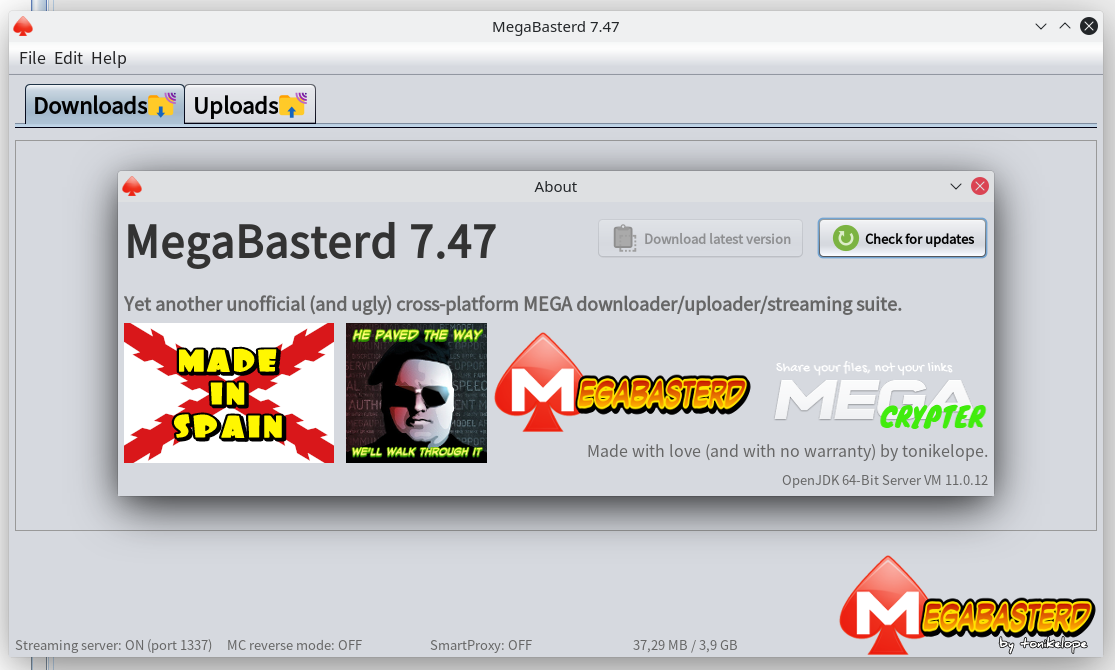
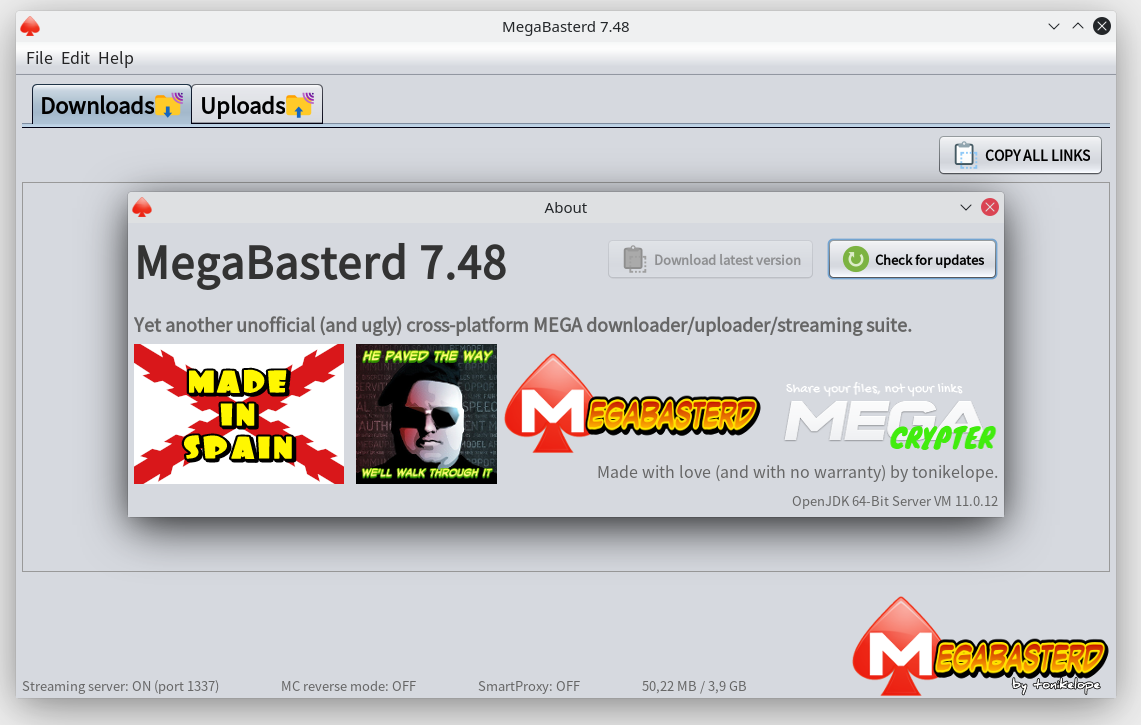
7.48
Fix https://github.com/tonikelope/megabasterd/issues/367

https://github.com/tonikelope/megabasterd/issues/368

Changed region(s): [[0.0, 0.0, 1.0, 1.0], [0.4269, 0.0299, 0.5489, 0.0597]]

diff --git a/src/main/java/com/tonikelope/megabasterd/MainPanelView.java b/src/main/java/com/tonikelope/megabasterd/MainPanelView.java
@@ -509,6 +509,7 @@ public final class MainPanelView extends javax.swing.JFrame {
         jPanel_scroll_down = new javax.swing.JPanel();
         pause_all_down_button = new javax.swing.JButton();
         down_remtime_label = new javax.swing.JLabel();
+        jButton1 = new javax.swing.JButton();
         uploads_panel = new javax.swing.JPanel();
         global_speed_up_label = new javax.swing.JLabel();
         status_up_label = new javax.swing.JLabel();
@@ -540,6 +541,8 @@ public final class MainPanelView extends javax.swing.JFrame {
 
         setTitle("MegaBasterd " + VERSION);
         setIconImage(new ImageIcon(getClass().getResource(ICON_FILE)).getImage());
+        setPreferredSize(new java.awt.Dimension(1024, 600));
+        setSize(new java.awt.Dimension(1024, 600));
 
         logo_label.setIcon(new javax.swing.ImageIcon(getClass().getResource("/images/mbasterd_logo_nuevo-picsay.png"))); // NOI18N
         logo_label.setDoubleBuffered(true);
@@ -598,19 +601,31 @@ public final class MainPanelView extends javax.swing.JFrame {
 
         down_remtime_label.setFont(new java.awt.Font("Dialog", 1, 20)); // NOI18N
 
+        jButton1.setFont(new java.awt.Font("Dialog", 1, 16)); // NOI18N
+        jButton1.setIcon(new javax.swing.ImageIcon(getClass().getResource("/images/icons8-copy-to-clipboard-30.png"))); // NOI18N
+        jButton1.setText("COPY ALL LINKS");
+        jButton1.addActionListener(new java.awt.event.ActionListener() {
+            public void actionPerformed(java.awt.event.ActionEvent evt) {
+                jButton1ActionPerformed(evt);
+            }
+        });
+
         javax.swing.GroupLayout downloads_panelLayout = new javax.swing.GroupLayout(downloads_panel);
         downloads_panel.setLayout(downloads_panelLayout);
         downloads_panelLayout.setHorizontalGroup(
             downloads_panelLayout.createParallelGroup(javax.swing.GroupLayout.Alignment.LEADING)
             .addGroup(downloads_panelLayout.createSequentialGroup()
-                .addComponent(global_speed_down_label, javax.swing.GroupLayout.DEFAULT_SIZE, javax.swing.GroupLayout.DEFAULT_SIZE, Short.MAX_VALUE)
+                .addComponent(global_speed_down_label, javax.swing.GroupLayout.DEFAULT_SIZE, 839, Short.MAX_VALUE)
                 .addPreferredGap(javax.swing.LayoutStyle.ComponentPlacement.RELATED)
                 .addComponent(pause_all_down_button))
             .addGroup(downloads_panelLayout.createSequentialGroup()
                 .addContainerGap()
                 .addComponent(status_down_label, javax.swing.GroupLayout.DEFAULT_SIZE, javax.swing.GroupLayout.DEFAULT_SIZE, Short.MAX_VALUE)
                 .addPreferredGap(javax.swing.LayoutStyle.ComponentPlacement.RELATED)
-                .addComponent(close_all_finished_down_button))
+                .addComponent(close_all_finished_down_button)
+                .addPreferredGap(javax.swing.LayoutStyle.ComponentPlacement.RELATED)
+                .addComponent(jButton1)
+                .addGap(6, 6, 6))
             .addComponent(jScrollPane_down)
             .addComponent(down_remtime_label, javax.swing.GroupLayout.DEFAULT_SIZE, javax.swing.GroupLayout.DEFAULT_SIZE, Short.MAX_VALUE)
         );
@@ -619,7 +634,9 @@ public final class MainPanelView extends javax.swing.JFrame {
             .addGroup(javax.swing.GroupLayout.Alignment.TRAILING, downloads_panelLayout.createSequentialGroup()
                 .addContainerGap()
                 .addGroup(downloads_panelLayout.createParallelGroup(javax.swing.GroupLayout.Alignment.LEADING, false)
-                    .addComponent(close_all_finished_down_button, javax.swing.GroupLayout.DEFAULT_SIZE, javax.swing.GroupLayout.DEFAULT_SIZE, Short.MAX_VALUE)
+                    .addGroup(downloads_panelLayout.createParallelGroup(javax.swing.GroupLayout.Alignment.BASELINE)
+                        .addComponent(close_all_finished_down_button, javax.swing.GroupLayout.DEFAULT_SIZE, javax.swing.GroupLayout.DEFAULT_SIZE, Short.MAX_VALUE)
+                        .addComponent(jButton1))
                     .addComponent(status_down_label, javax.swing.GroupLayout.DEFAULT_SIZE, javax.swing.GroupLayout.DEFAULT_SIZE, Short.MAX_VALUE))
                 .addPreferredGap(javax.swing.LayoutStyle.ComponentPlacement.RELATED)
                 .addComponent(jScrollPane_down, javax.swing.GroupLayout.DEFAULT_SIZE, 288, Short.MAX_VALUE)
@@ -865,17 +882,17 @@ public final class MainPanelView extends javax.swing.JFrame {
                 .addGroup(layout.createParallelGroup(javax.swing.GroupLayout.Alignment.LEADING)
                     .addComponent(jTabbedPane1, javax.swing.GroupLayout.Alignment.TRAILING)
                     .addGroup(javax.swing.GroupLayout.Alignment.TRAILING, layout.createSequentialGroup()
-                        .addGap(0, 283, Short.MAX_VALUE)
+                        .addGap(0, 0, Short.MAX_VALUE)
                         .addComponent(unfreeze_transferences_button)
-                        .addGap(0, 282, Short.MAX_VALUE))
+                        .addGap(0, 0, Short.MAX_VALUE))
                     .addGroup(layout.createSequentialGroup()
-                        .addComponent(kiss_server_status, javax.swing.GroupLayout.DEFAULT_SIZE, 191, Short.MAX_VALUE)
+                        .addComponent(kiss_server_status, javax.swing.GroupLayout.DEFAULT_SIZE, javax.swing.GroupLayout.DEFAULT_SIZE, Short.MAX_VALUE)
                         .addPreferredGap(javax.swing.LayoutStyle.ComponentPlacement.UNRELATED)
-                        .addComponent(mc_reverse_status, javax.swing.GroupLayout.DEFAULT_SIZE, 191, Short.MAX_VALUE)
+                        .addComponent(mc_reverse_status, javax.swing.GroupLayout.DEFAULT_SIZE, javax.swing.GroupLayout.DEFAULT_SIZE, Short.MAX_VALUE)
                         .addPreferredGap(javax.swing.LayoutStyle.ComponentPlacement.UNRELATED)
-                        .addComponent(smart_proxy_status, javax.swing.GroupLayout.DEFAULT_SIZE, 191, Short.MAX_VALUE)
+                        .addComponent(smart_proxy_status, javax.swing.GroupLayout.DEFAULT_SIZE, javax.swing.GroupLayout.DEFAULT_SIZE, Short.MAX_VALUE)
                         .addPreferredGap(javax.swing.LayoutStyle.ComponentPlacement.UNRELATED)
-                        .addComponent(memory_status, javax.swing.GroupLayout.DEFAULT_SIZE, 198, Short.MAX_VALUE)
+                        .addComponent(memory_status, javax.swing.GroupLayout.DEFAULT_SIZE, javax.swing.GroupLayout.DEFAULT_SIZE, Short.MAX_VALUE)
                         .addPreferredGap(javax.swing.LayoutStyle.ComponentPlacement.RELATED, javax.swing.GroupLayout.DEFAULT_SIZE, Short.MAX_VALUE)
                         .addComponent(logo_label)))
                 .addContainerGap())
@@ -886,7 +903,7 @@ public final class MainPanelView extends javax.swing.JFrame {
                 .addContainerGap()
                 .addComponent(unfreeze_transferences_button)
                 .addPreferredGap(javax.swing.LayoutStyle.ComponentPlacement.UNRELATED)
-                .addComponent(jTabbedPane1, javax.swing.GroupLayout.DEFAULT_SIZE, 469, Short.MAX_VALUE)
+                .addComponent(jTabbedPane1)
                 .addPreferredGap(javax.swing.LayoutStyle.ComponentPlacement.RELATED)
                 .addGroup(layout.createParallelGroup(javax.swing.GroupLayout.Alignment.TRAILING)
                     .addComponent(logo_label)
@@ -1421,6 +1438,14 @@ public final class MainPanelView extends javax.swing.JFrame {
         THREAD_POOL.execute(_main_panel.getUpload_manager()::unfreezeTransferenceWaitStartQueue);
     }//GEN-LAST:event_unfreeze_transferences_buttonActionPerformed
 
+    private void jButton1ActionPerformed(java.awt.event.ActionEvent evt) {//GEN-FIRST:event_jButton1ActionPerformed
+        // TODO add your handling code here:
+
+        _main_panel.getDownload_manager().copyAllLinksToClipboard();
+
+        JOptionPane.showMessageDialog(this, LabelTranslatorSingleton.getInstance().translate("¡TODO COPIADO!"));
+    }//GEN-LAST:event_jButton1ActionPerformed
+
     // Variables declaration - do not modify//GEN-BEGIN:variables
     private javax.swing.JMenuItem about_menu;
     private javax.swing.JCheckBoxMenuItem auto_close_menu;
@@ -1437,6 +1462,7 @@ public final class MainPanelView extends javax.swing.JFrame {
     private javax.swing.JLabel global_speed_up_label;
     private javax.swing.JMenu help_menu;
     private javax.swing.JMenuItem hide_tray_menu;
+    private javax.swing.JButton jButton1;
     private javax.swing.JPanel jPanel_scroll_down;
     private javax.swing.JPanel jPanel_scroll_up;
     private javax.swing.JScrollPane jScrollPane_down;

diff --git a/src/main/java/com/tonikelope/megabasterd/StreamerDialog.java b/src/main/java/com/tonikelope/megabasterd/StreamerDialog.java
@@ -8,6 +8,8 @@ import static java.awt.event.WindowEvent.WINDOW_CLOSING;
 import java.io.UnsupportedEncodingException;
 import java.net.URLDecoder;
 import java.util.HashSet;
+import java.util.List;
+import java.util.Set;
 import java.util.logging.Level;
 import java.util.logging.Logger;
 import javax.swing.JButton;
@@ -182,79 +184,98 @@ public class StreamerDialog extends javax.swing.JDialog implements ClipboardChan
 
         final Dialog tthis = this;
 
-        try {
-            boolean error = false;
+        THREAD_POOL.execute(() -> {
+            try {
+                boolean error = false;
 
-            String stream_link = null;
+                String stream_link = null;
 
-            String link = URLDecoder.decode(original_link_textfield.getText(), "UTF-8").trim();
+                String link = URLDecoder.decode(original_link_textfield.getText(), "UTF-8").trim();
 
-            if (link.length() > 0) {
+                if (link.length() > 0) {
 
-                try {
+                    try {
 
-                    if (findFirstRegex("://enc", link, 0) != null) {
+                        if (findFirstRegex("://enc", link, 0) != null) {
 
-                        link = CryptTools.decryptMegaDownloaderLink(link);
+                            link = CryptTools.decryptMegaDownloaderLink(link);
 
-                    } else if (findFirstRegex("://elc", link, 0) != null) {
+                        } else if (findFirstRegex("://elc", link, 0) != null) {
 
-                        HashSet links = CryptTools.decryptELC(link, ((MainPanelView) tthis.getParent()).getMain_panel());
+                            HashSet links = CryptTools.decryptELC(link, ((MainPanelView) tthis.getParent()).getMain_panel());
 
-                        if (links != null) {
+                            if (links != null) {
 
-                            link = (String) links.iterator().next();
+                                link = (String) links.iterator().next();
+                            }
                         }
+
+                    } catch (Exception ex) {
+
+                        error = true;
+
+                        LOG.log(Level.SEVERE, ex.getMessage());
                     }
 
-                } catch (Exception ex) {
+                    String data;
 
-                    error = true;
+                    if (findFirstRegex("://mega(\\.co)?\\.nz/#[^fF]", link, 0) != null || findFirstRegex("://mega(\\.co)?\\.nz/#F*", link, 0) != null || findFirstRegex("https?://[^/]+/![^!]+![0-9a-fA-F]+", link, 0) != null) {
 
-                    LOG.log(Level.SEVERE, ex.getMessage());
-                }
+                        if (link.contains("#F*")) {
 
-                String data;
+                            MegaAPI ma = new MegaAPI();
 
-                if (findFirstRegex("://mega(\\.co)?\\.nz/#[^fF]", link, 0) != null || findFirstRegex("https?://[^/]+/![^!]+![0-9a-fA-F]+", link, 0) != null) {
+                            Set<String> links = new HashSet<>();
 
-                    String selected_account = (String) use_mega_account_down_combobox.getSelectedItem();
+                            links.add(link);
 
-                    data = Bin2UrlBASE64(((selected_account != null ? selected_account : "") + "|" + link).getBytes("UTF-8"));
+                            List nlinks = ma.getNlinks(links);
 
-                    stream_link = "http://localhost:1337/video/" + data;
+                            link = (String) nlinks.get(0);
+                        }
+
+                        String selected_account = (String) use_mega_account_down_combobox.getSelectedItem();
+
+                        data = Bin2UrlBASE64(((selected_account != null ? selected_account : "") + "|" + link).getBytes("UTF-8"));
+
+                        stream_link = "http://localhost:1337/video/" + data;
+
+                    } else {
+
+                        error = true;
+                    }
 
                 } else {
 
                     error = true;
                 }
 
-            } else {
+                if (error) {
 
-                error = true;
+                    MiscTools.GUIRun(() -> {
+                        JOptionPane.showMessageDialog(tthis, LabelTranslatorSingleton.getInstance().translate("Please, paste a Mega/MegaCrypter/ELC link!"), "Error", JOptionPane.ERROR_MESSAGE);
+
+                        original_link_textfield.setText("");
+
+                        dance_button.setEnabled(true);
+
+                        original_link_textfield.setEnabled(true);
+                    });
+
+                } else {
+
+                    _mainPanelView.getMain_panel().getClipboardspy().detachObserver((ClipboardChangeObserver) tthis);
+                    copyTextToClipboard(stream_link);
+                    MiscTools.GUIRun(() -> {
+                        JOptionPane.showMessageDialog(tthis, LabelTranslatorSingleton.getInstance().translate("Streaming link was copied to clipboard!\nRemember to keep MegaBasterd running in background while playing content."));
+                        dispose();
+                        getParent().dispatchEvent(new WindowEvent(tthis, WINDOW_CLOSING));
+                    });
+                }
+            } catch (UnsupportedEncodingException ex) {
+                LOG.log(Level.SEVERE, ex.getMessage());
             }
-
-            if (error) {
-
-                JOptionPane.showMessageDialog(tthis, LabelTranslatorSingleton.getInstance().translate("Please, paste a Mega/MegaCrypter/ELC link!"), "Error", JOptionPane.ERROR_MESSAGE);
-
-                original_link_textfield.setText("");
-
-                dance_button.setEnabled(true);
-
-                original_link_textfield.setEnabled(true);
-
-            } else {
-
-                _mainPanelView.getMain_panel().getClipboardspy().detachObserver((ClipboardChangeObserver) tthis);
-                copyTextToClipboard(stream_link);
-                JOptionPane.showMessageDialog(tthis, LabelTranslatorSingleton.getInstance().translate("Streaming link was copied to clipboard!\nRemember to keep MegaBasterd running in background while playing content."));
-                dispose();
-                getParent().dispatchEvent(new WindowEvent(tthis, WINDOW_CLOSING));
-            }
-        } catch (UnsupportedEncodingException ex) {
-            LOG.log(Level.SEVERE, ex.getMessage());
-        }
+        });
 
     }//GEN-LAST:event_dance_buttonActionPerformed
 

diff --git a/src/main/java/com/tonikelope/megabasterd/DownloadManager.java b/src/main/java/com/tonikelope/megabasterd/DownloadManager.java
@@ -22,6 +22,74 @@ public class DownloadManager extends TransferenceManager {
     }
 
     @Override
+    public void closeAllFinished() {
+
+        _transference_finished_queue.stream().filter((t) -> ((!t.isStatusError() || ((Download) t).getStatus_error().equals("FILE WITH SAME NAME AND SIZE ALREADY EXISTS")) && !t.isCanceled())).map((t) -> {
+            _transference_finished_queue.remove(t);
+            return t;
+        }).forEachOrdered((t) -> {
+            _transference_remove_queue.add(t);
+        });
+
+        secureNotify();
+    }
+
+    public void copyAllLinksToClipboard() {
+
+        ArrayList<String> links = new ArrayList<>();
+
+        String out = "***PROVISIONING DOWNLOADS***\r\n\r\n";
+
+        for (Transference t : _transference_provision_queue) {
+
+            links.add(((Download) t).getUrl());
+        }
+
+        out += String.join("\r\n", links);
+
+        links.clear();
+
+        out += "\r\n\r\n***WAITING DOWNLOADS***\r\n\r\n";
+
+        for (Transference t : _transference_waitstart_aux_queue) {
+
+            links.add(((Download) t).getUrl());
+        }
+
+        for (Transference t : _transference_waitstart_queue) {
+
+            links.add(((Download) t).getUrl());
+        }
+
+        out += String.join("\r\n", links);
+
+        links.clear();
+
+        out += "\r\n\r\n***RUNNING DOWNLOADS***\r\n\r\n";
+
+        for (Transference t : _transference_running_list) {
+
+            links.add(((Download) t).getUrl());
+        }
+
+        out += String.join("\r\n", links);
+
+        links.clear();
+
+        out += "\r\n\r\n***FINISHED DOWNLOADS***\r\n\r\n";
+
+        for (Transference t : _transference_finished_queue) {
+
+            links.add(((Download) t).getUrl());
+        }
+
+        out += String.join("\r\n", links);
+
+        MiscTools.copyTextToClipboard(out);
+
+    }
+
+    @Override
     public void remove(Transference[] downloads) {
 
         ArrayList<String> delete_down = new ArrayList<>();

diff --git a/src/main/java/com/tonikelope/megabasterd/TransferenceManager.java b/src/main/java/com/tonikelope/megabasterd/TransferenceManager.java
@@ -23,14 +23,14 @@ abstract public class TransferenceManager implements Runnable, SecureSingleThrea
     public static final int MAX_PROVISION_WORKERS = 25;
     private static final Logger LOG = Logger.getLogger(TransferenceManager.class.getName());
 
-    private final ConcurrentLinkedQueue<Object> _transference_preprocess_global_queue;
-    private final ConcurrentLinkedQueue<Runnable> _transference_preprocess_queue;
-    private final ConcurrentLinkedQueue<Transference> _transference_provision_queue;
-    private final ConcurrentLinkedQueue<Transference> _transference_waitstart_queue;
-    private final ConcurrentLinkedQueue<Transference> _transference_waitstart_aux_queue;
-    private final ConcurrentLinkedQueue<Transference> _transference_remove_queue;
-    private final ConcurrentLinkedQueue<Transference> _transference_finished_queue;
-    private final ConcurrentLinkedQueue<Transference> _transference_running_list;
+    protected final ConcurrentLinkedQueue<Object> _transference_preprocess_global_queue;
+    protected final ConcurrentLinkedQueue<Runnable> _transference_preprocess_queue;
+    protected final ConcurrentLinkedQueue<Transference> _transference_provision_queue;
+    protected final ConcurrentLinkedQueue<Transference> _transference_waitstart_queue;
+    protected final ConcurrentLinkedQueue<Transference> _transference_waitstart_aux_queue;
+    protected final ConcurrentLinkedQueue<Transference> _transference_remove_queue;
+    protected final ConcurrentLinkedQueue<Transference> _transference_finished_queue;
+    protected final ConcurrentLinkedQueue<Transference> _transference_running_list;
 
     private final javax.swing.JPanel _scroll_panel;
     private final javax.swing.JLabel _status;

diff --git a/src/main/java/com/tonikelope/megabasterd/LabelTranslatorSingleton.java b/src/main/java/com/tonikelope/megabasterd/LabelTranslatorSingleton.java
@@ -38,6 +38,7 @@ public class LabelTranslatorSingleton {
 
     private void Spanish() {
 
+        _addTranslation("¡TODO COPIADO!", "ALL COPIED!");
         _addTranslation("FILE WITH SAME NAME AND SIZE ALREADY EXISTS", "YA EXISTE UN FICHERO CON EL MISMO NOMBRE Y TAMAÑO");
         _addTranslation("WARNING: USING MEGA API WITHOUT API KEY MAY VIOLATE ITS TERM OF USE. YOU SHOULD GET A KEY -> https://mega.nz/sdk", "AVISO: USAR LA API DE MEGA SIN UNA API KEY PUEDE VIOLAR SUS TÉRMINOS DE USO. DEBES CONSEGUIR UNA API KEY -> https://mega.nz/sdk");
         _addTranslation("WARNING: USING MEGA API WITHOUT API KEY MAY VIOLATE ITS TERM OF USE.\n\nYOU SHOULD GET A KEY -> https://mega.nz/sdk (and set it in MegaBasterd ADVANCED SETTINGS).\n\nCREATE API KEY NOW?", "AVISO: USAR LA API DE MEGA SIN UNA API KEY PUEDE VIOLAR SUS TÉRMINOS DE USO.\n\nDEBES CONSEGUIR UNA API KEY -> https://mega.nz/sdk (e introducirla en AJUSTES AVANZADOS de MegaBasterd).\n\n¿CREAR AHORA UNA API KEY?");

diff --git a/src/main/java/com/tonikelope/megabasterd/Download.java b/src/main/java/com/tonikelope/megabasterd/Download.java
@@ -101,6 +101,10 @@ public class Download implements Transference, Runnable, SecureSingleThreadNotif
     private final Object _progress_watchdog_lock;
     private final boolean _priority;
 
+    public String getStatus_error() {
+        return _status_error;
+    }
+
     public Download(MainPanel main_panel, MegaAPI ma, String url, String download_path, String file_name, String file_key, Long file_size, String file_pass, String file_noexpire, boolean use_slots, boolean restart, String custom_chunks_dir, boolean priority) {
 
         _priority = priority;

diff --git a/src/main/java/com/tonikelope/megabasterd/MainPanel.java b/src/main/java/com/tonikelope/megabasterd/MainPanel.java
@@ -60,7 +60,7 @@ import javax.swing.UIManager;
  */
 public final class MainPanel {
 
-    public static final String VERSION = "7.47";
+    public static final String VERSION = "7.48";
     public static final boolean FORCE_SMART_PROXY = false; //TRUE FOR DEBUGING SMART PROXY
     public static final int THROTTLE_SLICE_SIZE = 16 * 1024;
     public static final int DEFAULT_BYTE_BUFFER_SIZE = 16 * 1024;
